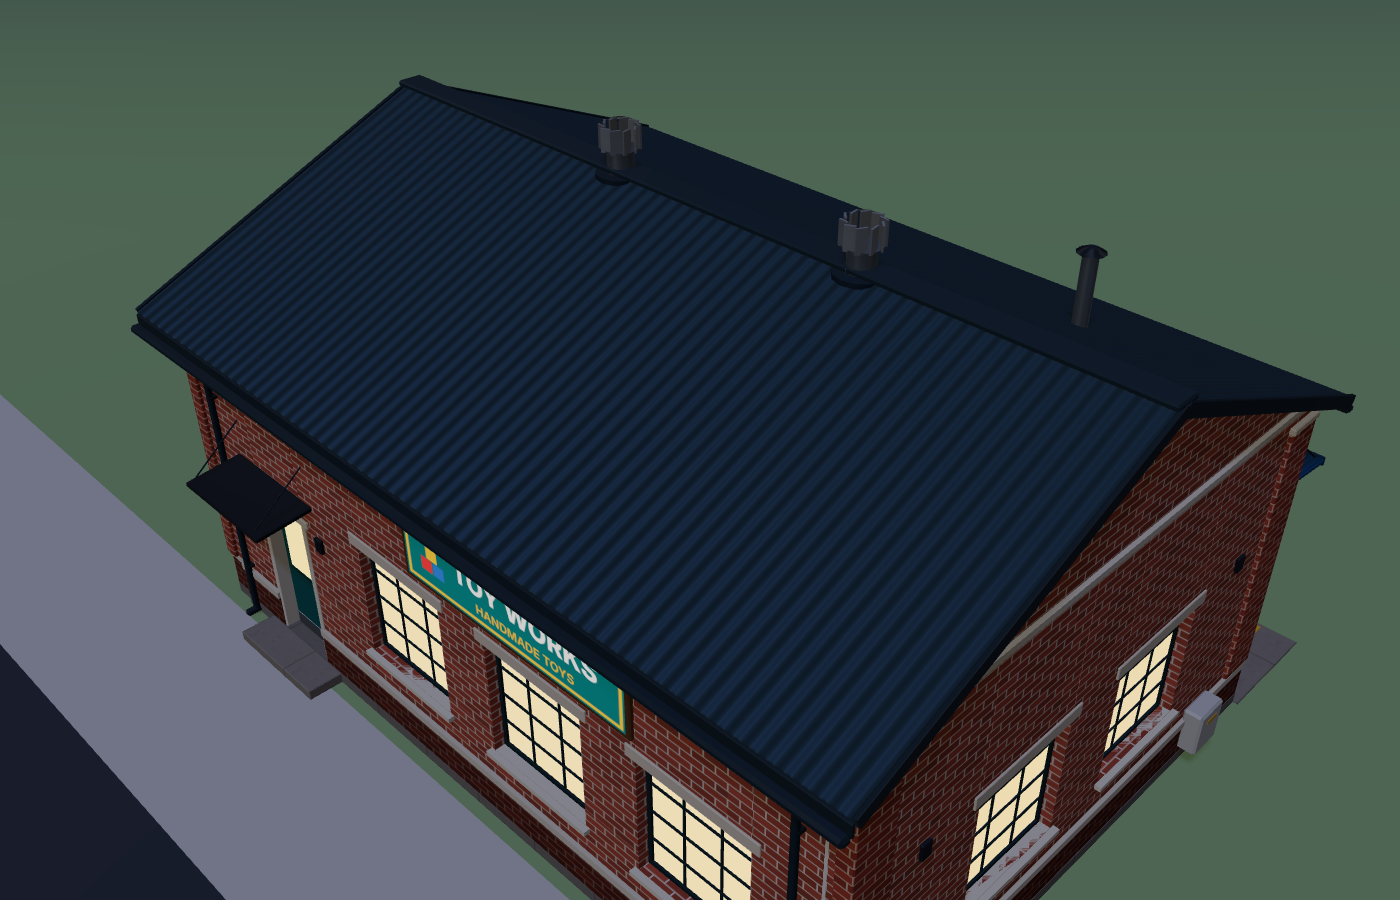
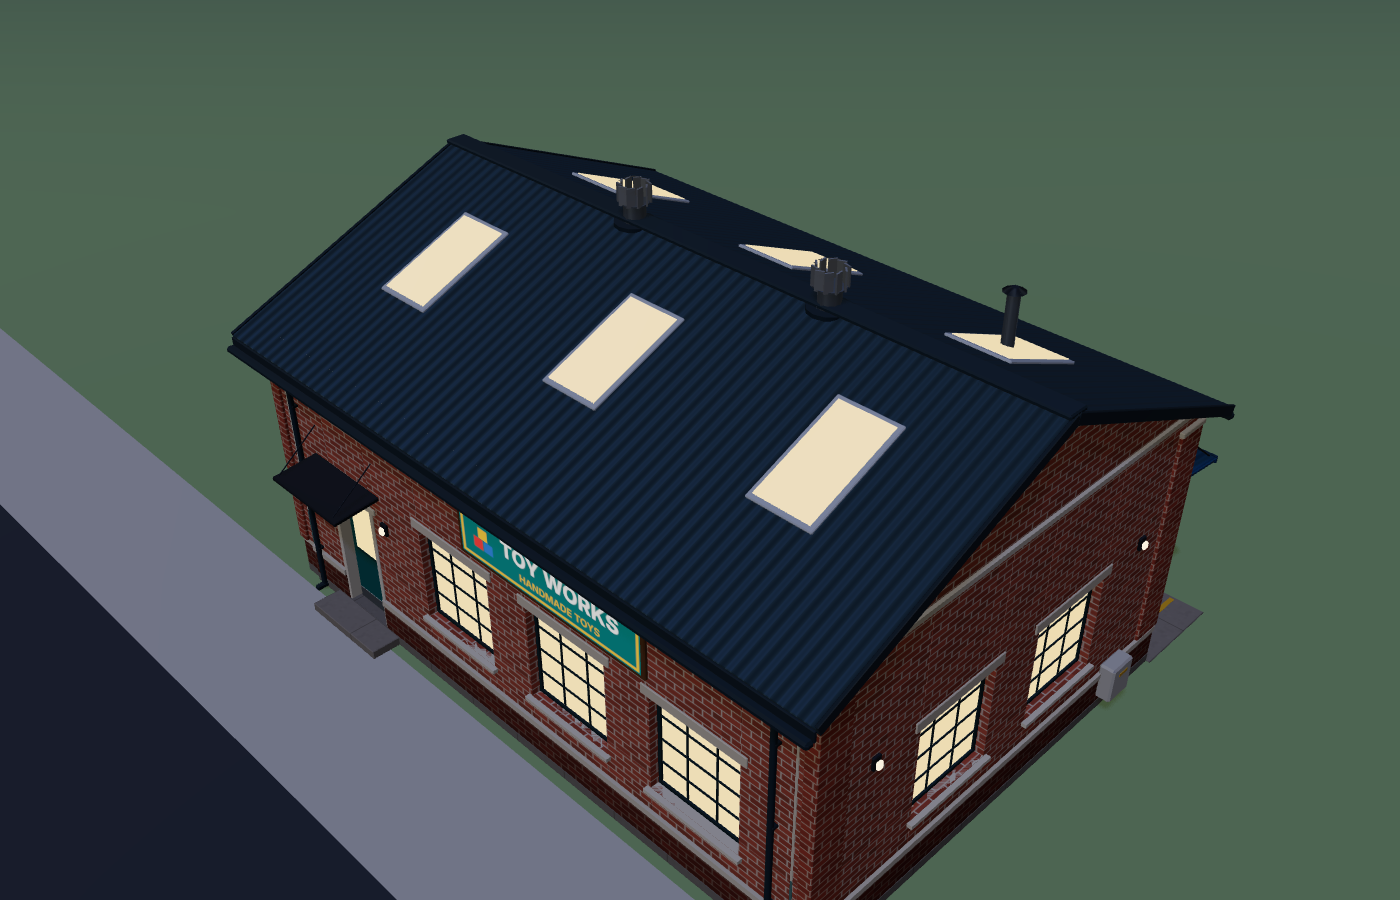
E2E evidence: fresh city to first sale through the real UI and canvas input (desktop, headless Chromium)
Claude-Session: https://claude.ai/code/session_01QUCVJJ8vSf1g5xenrdUj19

diff --git a/src/render/models/items.ts b/src/render/models/items.ts
@@ -27,14 +27,10 @@ function wheel(b: Builder, x: number, y: number, z: number, r: number, wdt: numb
 function carBody(b: Builder, body: number, cabin: number, glass: number | null, tire: number, hub: number, lights: boolean): void {
   b.boxB(M, body, 0.3, 0.085, 0.15, 0, 0.035, 0, 0.025);
   b.boxB(M, cabin, 0.15, 0.075, 0.13, -0.025, 0.12, 0, 0.025);
-  if (glass !== null) {
-    b.box(M, glass, 0.11, 0.045, 0.134, -0.025, 0.16, 0, 0.01);
-    b.box(M, glass, 0.155, 0.045, 0.09, -0.025, 0.16, 0, 0.01);
-  }
+  if (glass !== null) b.box(M, glass, 0.155, 0.045, 0.134, -0.025, 0.16, 0, 0.012);
   for (const x of [-0.095, 0.095]) for (const z of [-0.078, 0.078]) wheel(b, x, 0.042, z, 0.042, 0.03, tire, hub);
   if (lights) {
     for (const z of [-0.045, 0.045]) b.box(M, PAL.yellow, 0.012, 0.022, 0.03, 0.151, 0.085, z, 0.004);
-    b.box(M, PAL.white, 0.006, 0.014, 0.1, 0.15, 0.06, 0, 0.002);
   }
 }
 
@@ -60,20 +56,20 @@ function robot(b: Builder, body: number, head: number, limbs: number, face: numb
 
 function smartBot(b: Builder, shell: number, trim: number, visor: number | null, base: number, chest: number): void {
   // tread base
-  b.boxB(M, base, 0.17, 0.05, 0.05, 0, 0, -0.05, 0.02);
-  b.boxB(M, base, 0.17, 0.05, 0.05, 0, 0, 0.05, 0.02);
-  for (const x of [-0.06, 0, 0.06]) for (const z of [-0.077, 0.077]) b.cyl(M, GREY2, 0.017, 0.006, x, 0.025, z, 'z', 8);
+  b.boxB(M, base, 0.17, 0.05, 0.05, 0, 0, -0.05, 0);
+  b.boxB(M, base, 0.17, 0.05, 0.05, 0, 0, 0.05, 0);
+  for (const x of [-0.05, 0.05]) for (const z of [-0.077, 0.077]) b.cyl(M, GREY2, 0.017, 0.006, x, 0.025, z, 'z', 6);
   // torso (tapered via two boxes)
   b.boxB(M, shell, 0.13, 0.1, 0.12, 0, 0.05, 0, 0.03);
   b.boxB(M, trim, 0.14, 0.02, 0.13, 0, 0.145, 0, 0.008);
   b.box(M, chest, 0.006, 0.05, 0.06, 0.066, 0.1, 0, 0.004);
   // dome head
-  b.add(M, new THREE.SphereGeometry(0.065, 12, 6, 0, TAU, 0, Math.PI / 2), shell, 0, 0.165, 0);
-  b.cylB(M, trim, 0.067, 0.02, 0, 0.155, 0, 12);
-  if (visor !== null) b.add(M, new THREE.CylinderGeometry(0.0665, 0.0665, 0.03, 12, 1, true, -0.9, 1.8), visor, 0, 0.198, 0);
+  b.add(M, new THREE.SphereGeometry(0.065, 10, 4, 0, TAU, 0, Math.PI / 2), shell, 0, 0.165, 0);
+  b.cylB(M, trim, 0.067, 0.02, 0, 0.155, 0, 10);
+  if (visor !== null) b.add(M, new THREE.CylinderGeometry(0.0665, 0.0665, 0.03, 6, 1, true, -0.9, 1.8), visor, 0, 0.198, 0);
   // arms
-  b.box(M, trim, 0.03, 0.08, 0.04, 0, 0.1, -0.08, 0.01, { rx: 0.2 });
-  b.box(M, trim, 0.03, 0.08, 0.04, 0, 0.1, 0.08, 0.01, { rx: -0.2 });
+  b.box(M, trim, 0.03, 0.08, 0.04, 0, 0.1, -0.08, 0, { rx: 0.2 });
+  b.box(M, trim, 0.03, 0.08, 0.04, 0, 0.1, 0.08, 0, { rx: -0.2 });
   b.sphere(M, PAL.orange, 0.012, 0, 0.245, 0, 6, 4);
 }
 
@@ -172,9 +168,8 @@ function build(id: string): THREE.BufferGeometry | null {
       const cols = [PAL.red, PAL.blue, PAL.yellow, PAL.green, 0x4f9be0, PAL.orange];
       cols.forEach((c, i) => {
         const x = -0.08 + (i % 3) * 0.08, z = i < 3 ? -0.045 : 0.045;
-        b.boxB(M, c, 0.06, 0.04, 0.05, x, 0.046, z, 0.008, { ry: (i % 2) * 0.3 });
-        b.cylB(M, c, 0.011, 0.012, x - 0.014, 0.086, z, 6);
-        b.cylB(M, c, 0.011, 0.012, x + 0.014, 0.086, z, 6);
+        b.boxB(M, c, 0.06, 0.04, 0.05, x, 0.046, z, 0, { ry: (i % 2) * 0.3 });
+        b.cylB(M, c, 0.014, 0.012, x, 0.086, z, 6);
       });
       break;
     }

diff --git a/src/render/models/buildings/workshop.ts b/src/render/models/buildings/workshop.ts
@@ -60,8 +60,8 @@ const BAY_W = 1.8;
 const BAY_H = 2.5;
 
 const COL = {
-  dado: 0x7d9a92,
-  lining: 0xf3ead8,
+  dado: 0x6c8f86,
+  lining: 0xeadcc3,
   cap: 0xe8dcc4,
   frame: 0x2f4a4c,
   truss: 0x6f8590,
@@ -303,6 +303,15 @@ function gableRoof(c: Ctx, x0: number, x1: number, H: number, pitch: number, col
   for (const s of [1, -1]) {
     const pz = (s * run) / 2, py = ridge - (run / 2) * tan;
     b.box('ribbed', color, lx, rt, L, cx, py + (rt / 2) * cos, pz + s * (rt / 2) * sin, 0.01, { rx: s * pitch });
+    // rooflights: framed glazed strips set into the slope
+    const nl = Math.max(1, Math.round((x1 - x0) / 3.2));
+    for (let i = 0; i < nl; i++) {
+      const lx = x0 + ((x1 - x0) * (i + 0.5)) / nl;
+      const d0 = run * 0.42; // distance from the ridge along the horizontal run
+      const ly = ridge - d0 * tan + (rt + 0.015) * cos, lz = s * d0 + s * (rt + 0.015) * sin;
+      b.box('satin', 0xd5dadc, 1.0, 0.05, 1.7, lx, ly, lz, 0.015, { rx: s * pitch });
+      b.box('glassLit', 0xa9cfe0, 0.86, 0.03, 1.56, lx, ly + 0.025 * cos, lz + s * 0.025 * sin, 0, { rx: s * pitch });
+    }
     // fascia + gutter
     const ez = s * run, ey = ridge - run * tan;
     b.box('satin', shade(color, 0.7), lx, 0.16, 0.04, cx, ey - 0.02, ez + s * 0.03, 0.008);
@@ -427,7 +436,7 @@ export function createWorkshop(opts: ModelOptions = {}): ModelInstance {
   const c: Ctx = { w, h, level, st: new Builder(), up: { S: new Builder(), E: new Builder() }, roof: new Builder(), truss: new Builder(), anim: [], pools: [] };
 
   // ---- floor slab (exactly the grid) + foundation
-  c.st.span('concrete', 0xe4ded3, -w / 2, -PLINTH - 0.05, -h / 2, w / 2, 0, h / 2, 0);
+  c.st.span('concrete', 0xcfc6b7, -w / 2, -PLINTH - 0.05, -h / 2, w / 2, 0, h / 2, 0);
   // perimeter safety line (inside the grid, 0.08 from the wall)
   const ly = 0.004;
   c.st.span('paint', PAL.yellow, -w / 2 + 0.06, 0, -h / 2 + 0.06, w / 2 - 0.06, ly, -h / 2 + 0.11, 0);

diff --git a/src/render/models/common.ts b/src/render/models/common.ts
@@ -76,7 +76,7 @@ function stackOnBeforeCompile(shader: THREE.WebGLProgramParametersWithUniforms, 
   );
   shader.fragmentShader = 'varying float vOn;\n' + shader.fragmentShader
     .replace('#include <color_fragment>', '#include <color_fragment>\n diffuseColor.rgb *= mix(0.38, 0.9, vOn);')
-    .replace('#include <emissivemap_fragment>', '#include <emissivemap_fragment>\n totalEmissiveRadiance += vColor.rgb * diffuse * vOn * 3.2;');
+    .replace('#include <emissivemap_fragment>', '#include <emissivemap_fragment>\n totalEmissiveRadiance += vColor.rgb * diffuse * vOn * 2.0;');
 }
 
 const lensGeoCache = new Map<string, THREE.BufferGeometry>();
@@ -193,6 +193,7 @@ export class StackLight {
     this.haloMat = new THREE.SpriteMaterial({ map: haloTex, color: 0xffffff, transparent: true, depthWrite: false, blending: THREE.AdditiveBlending, opacity: 0 });
     this.haloMat.userData.perInstance = true;
     this.halo = new THREE.Sprite(this.haloMat);
+    this.halo.geometry.userData.shared = true; // three's module-level sprite quad
     this.halo.scale.setScalar(0.42 * size);
     this.halo.position.copy(lens.position);
     this.halo.renderOrder = 10;

diff --git a/src/render/models/materials.ts b/src/render/models/materials.ts
@@ -391,7 +391,7 @@ function create(key: MatKey): THREE.Material {
       // one shared emissive material; the glow colour comes from the vertex colour (see GLOW_TINT)
       const m = std({ name: 'glow', roughness: 0.3, metalness: 0, emissive: new THREE.Color(0xffffff), emissiveIntensity: 0.45 });
       m.onBeforeCompile = (sh) => {
-        sh.fragmentShader = sh.fragmentShader.replace('#include <emissivemap_fragment>', '#include <emissivemap_fragment>\n totalEmissiveRadiance *= vColor;');
+        sh.fragmentShader = sh.fragmentShader.replace('#include <emissivemap_fragment>', '#include <emissivemap_fragment>\n totalEmissiveRadiance *= vColor.rgb;');
       };
       m.customProgramCacheKey = () => 'glowVC';
       return m;

diff --git a/tools/model-gallery/gallery.ts b/tools/model-gallery/gallery.ts
@@ -299,7 +299,7 @@ function setupWorkshop(level: number) {
   walk.position.set(0, 0.006, interior[1] / 2 + 1.8);
   walk.receiveShadow = true;
   scene.add(walk);
-  if (!q.has('dist')) q.set('dist', '0.62');
+  if (!q.has('dist')) q.set('dist', cutaway > 0.5 ? '0.64' : '0.74');
   frameObject(bld.inst.root, q.get('cam') ?? '34');
   return bld;
 }

diff --git a/src/render/models/characters.ts b/src/render/models/characters.ts
@@ -261,6 +261,7 @@ function createPerson(worker: boolean, opts: ModelOptions): ModelInstance {
 
   return makeInstance({
     root,
+    extraDispose: () => skel.dispose(),
     update: (dt, s: AnimState) => {
       const pose = s.pose ?? 'idle';
       const moving = pose === 'walk' || pose === 'carry';

diff --git a/docs/art-bible.md b/docs/art-bible.md
@@ -1,0 +1,168 @@
+# Art bible — Tiny Factory: Tycoon City
+
+Target look: **a premium stylized miniature city** — a toy-like diorama with believable function. Soft
+clay-like matte surfaces, crisp bevels that catch light, saturated-but-warm accents, readable
+silhouettes from a 10–15 m camera on a phone. Everything is original procedural geometry
+(`src/render/models/**`), see `docs/licenses/art.md`.
+
+Gallery: `npx vite --port 5181` then open `/tools/model-gallery/index.html` (params documented at the top of
+`tools/model-gallery/gallery.ts`). Captures: `node tools/model-gallery/capture.mjs [filter]` → `captures/models/`.
+
+---
+
+## 1. Palette (sRGB hex — `PAL` in `materials.ts`)
+
+| Role | Swatches |
+|---|---|
+| Brick / masonry | brick texture (red `#c6684c` bricks, cream `#e9dcc6` mortar), plinth tint `#a8968c`, cap/coping `#e8dcc4` |
+| Plaster / interior | cream `#f1e6cf`, lining `#f3ead8`, dado sage `#7d9a92`, house pastels mint `#b9dcc9`, butter `#f3dc8e`, sky `#a9cde8`, peach `#f4bf9c`, coral (store) `#f2b8a0` |
+| Roofs | slate teal `#4d6670`, dark `#34474f`, terracotta `#a65a42`/`#b4583e`, slate blue `#52687e`, saw-tooth grey `#8a9aa2` |
+| Signature accents | teal `#2e7c78` (Toy Works brand), deep teal `#1f5654`, mint `#93d6c3`, orange `#ef7f3a` (robots), safety yellow `#f2bb2c`, red `#d8453c`, blue `#3f7fc8`, purple `#6d4fa8` |
+| Neutrals | graphite `#34383f`, rubber `#2a2c31`, steel `#aab3ba`, dark steel `#5c656d`, chrome `#e2e6ea`, white `#f5f3ee` |
+| Materials | wood `#c9985f` / light `#e3c08a` / dark `#8a5d36`, cardboard `#c99b63` / dark `#a87b46`, concrete `#d3ccc0` / dark `#aaa296`, asphalt `#4c5056`, grass `#8dbf62` |
+| Light | window glow `#ffc874`, lamp `#ffd08a`, cool LED `#e8f3ff`, tail `#ff3a24`, screen cyan `#58e0ff` |
+| Status tiers | blue `#2f7cff`, green `#2fd35a`, amber `#ffa31a`, red `#ff3326`, white `#f2f4f8` |
+| Products | blocks yellow box, car red box, robot blue box, smart robot aubergine `#3b2a6b` box with teal band |
+
+Rules: one dominant hue per object + one accent + neutrals. Saturated colours are reserved for
+signals (status, hazard, brand, products). Large surfaces stay mid-value and slightly warm so the
+ACES tone curve never clips them to white.
+
+## 2. Materials (shared — `mat(key)` in `materials.ts`)
+
+All library materials are created once and shared. Colour per part = **vertex colour** multiplied
+into the material, so a machine is typically 4–8 draw calls regardless of how many colours it uses.
+
+| Key | Type / params | Use |
+|---|---|---|
+| `paint` | Standard, rough 0.82, metal 0, vc | plaster, cloth, cardboard, matte paint, characters |
+| `satin` | rough 0.46, metal 0.02, vc | painted steel, plastic, vehicle paint, items |
+| `metal` | rough 0.34, metal 0.85, vc | bare steel, chrome rollers, insulators of steel |
+| `brick` / `concrete` / `wood` | canvas maps, world-metre UVs, rough 0.72–0.92 | masonry, floors (1 m joints align to the grid), timber |
+| `ribbed` / `slats` / `tiles` | sinusoidal normal maps | corrugated roofs/cladding/containers, roller curtains, roof tiles |
+| `hazard` | yellow/black stripe map, 0.12 m pitch | dock lips, guards, floor zones |
+| `glass` | rough 0.08, metal 0.6, vc | vehicle glazing, never glows |
+| `glassLit` | as glass + warm emissive × night | building windows |
+| `glassClear` | transparent 0.28, no depth write, double-sided | booth windows, offices, display glass |
+| `glow` (aliases `lamp`, `lampCool`, `tail`, `screen`) | emissive = vertex colour × intensity(night) | every light, HMI screen, tail light |
+| `solar`, `wire` | cell texture / alpha-tested mesh | PV panels / guard + perimeter fences |
+| `foliage` | rough 0.88, vc gradient (dark low, light high) | trees, hedges, planters |
+| `contact`, `contactRound`, `lightPool` | unlit transparent / additive | soft contact shadows, night light pools |
+| `sign:*`, `livery` | canvas text textures | signage (emissive at night where it is lit), vehicle liveries (4-row atlas) |
+
+Ranges: roughness 0.3–0.95 (nothing glossier than 0.3 except glass), metalness 0 for everything painted,
+0.6–0.85 only for bare metal/glass. Per-instance materials exist only where state is per instance:
+stack-light lens (shared shader program), status halo sprite, dock roller stripe texture offset,
+paint mist / painted part tint, packed product tint, and transient clones during cutaway fades.
+Measured: **31 shared materials** for the whole library (`captures/models/stats.json`).
+
+## 3. Lighting (`lighting.ts`, identical in gallery and game)
+
+* `configureRenderer`: ACES filmic, exposure 1.0, sRGB output, PCF shadows (`shadow.radius = 3` for
+  softness — r187 removed `PCFSoftShadowMap`).
+* `createLightRig()`: warm sun `#fff0d8` ×2.6 from the **east-south-east, ~50° high** (towards-light
+  vector `(0.62, 1, 0.36)`), sky/ground hemisphere `#cfe4ff`/`#c8b496` ×0.95, cool back fill ×0.3.
+  The sun direction is chosen so street-facing walls (S, E) read in two tones, shadows fall
+  north-west (away from the camera), and the remaining west/north walls never shadow a cut-away
+  interior. Night: moon `#8fa8ff` ×0.5, hemisphere `#2c3f70`/`#141a2a` ×0.42. `update(night, focus,
+  radius)` fits the 2048² shadow frustum to the view and snaps it to texels (no shimmer).
+* `createSkyAndFog(scene, renderer)`: background/fog `#bcdcef` (day) → `#0e1729` (night), procedural
+  RoomEnvironment IBL ×0.45 → ×0.10. Recommended fog: `near ≈ 1.6 × camera distance`,
+  `far ≈ 4.5 × camera distance` (the gallery does this); never fog the gameplay focus.
+* Night is a single global: every model's `update()` forwards `AnimState.night` to
+  `setNightLevel()`, which drives window glow, lamps, signs and light pools.
+
+## 4. Scale, pivots, orientation
+
+* 1 unit = 1 m, +Y up. Worker 1.71 m (1.76 with hard hat), door 2.15 m, bay door 1.8 × 2.5 m,
+  van 4.8 m, box truck 7.6 m, belt top `BELT_TOP_Y = 0.42`.
+* **Machines** face +X at rotation 0 (output side), centred on their footprint, base y = 0.
+  `root.userData` carries `footprint`, `ports` (local in/out lip centres), `workerSpot {x,z,yaw}`.
+* **Characters and vehicles** face +X at rotation 0, origin on the ground at the body centre.
+* **Buildings**: origin = centre of the interior grid at floor level (houses/depot/substation: plot
+  centre at yard level). Floor top is y = 0; foundations go down to −0.15. **Place building roots at
+  `BUILDING_FLOOR_HEIGHT` (0.15) above the street** so slabs never z-fight the city ground. The street
+  side of every building is +Z; the gameplay camera sits at +X,+Z.
+* Grid: tile (gx, gy) occupies local x ∈ [gx − w/2, gx + 1 − w/2], z ∈ [gy − h/2, gy + 1 − h/2]. Use
+  `placeOnGrid(obj, interior, gx, gy, footprint, rot)` from `models/index.ts` (anchor = min corner of
+  the rotated footprint; odd rotations swap the footprint extents).
+
+## 5. Silhouette & detail rules
+
+1. Every primary form has a chamfer or rounded edge (flat-shaded 44-tri chamfer box); chamfers under
+   8 mm are dropped automatically (invisible at 12 m, 32 triangles each).
+2. Detail is **layered structure**, never noise: frames around openings, sills and lintels, plinths
+   and copings, rails on posts, guards on machines, cables/hoses between parts.
+3. Each machine has one **signature silhouette element** that reads at phone size: bench → pegboard +
+   task lamp; packer → blue portal + tape head; paint booth → white cabin + extractor stack; robot
+   cell → orange arm + yellow fence posts; dock → coloured roll-up portal; splitter → yellow gantry +
+   orange paddle; storage → green cage.
+4. Interior-facing walls (W, N) carry the storytelling detail (lights, pipes, extinguisher, notice
+   board, clock, distribution board) because they are what the cut-away camera sees.
+5. Contact shadows under every free-standing object; light pools under every night light.
+6. No floating parts: every prop/fixture touches a support (verified in captures); no coplanar faces
+   (offsets ≥ 4 mm, polygon offset on decals).
+
+## 6. Budgets (measured — `captures/models/stats.json`)
+
+| Class | Budget | Current |
+|---|---|---|
+| Item | ≤ 400 tris, 1 draw (InstancedMesh) | 230–740 (see §10) |
+| Belt / curve | ≈ 700–1200 tris, 3 draws | belt ≈ 680, curves ≈ 1.1k |
+| Machine | ≤ 4 k tris, ≤ ~12 draws | 1.2–3.6 k |
+| Worker / pedestrian | ≤ 1.5 k tris, 2 draws (skinned body + blob) | ≈ 1.2–1.45 k |
+| Vehicle | ≤ 4 k | van ≈ 2.9 k, truck ≈ 3.4 k |
+| House | ≤ 5 k | 3.3–5.0 k |
+| Workshop L1/L2/L3 | L3 ≤ 20 k | ≈ 11 k / 15 k / 20 k |
+| Materials (library) | ≤ ~40 | 31 shared |
+
+Static geometry of each model is merged per material and **cached per model id** (60 belts share one
+geometry); only animated parts are separate meshes. `update()` never allocates.
+
+## 7. Animation-state language (`VisualStatus`)
+
+Every machine has a stack light (5 tiers bottom→top: blue, green, amber, red, white) or, on belts and
+storage, a single LED. Status reads by **tier position + rhythm**, not colour alone, plus an additive
+halo for phone readability.
+
+| Status | Light | Mechanism |
+|---|---|---|
+| `working` | green, steady | animates, synced to `progress` |
+| `loading` / `unloading` | green, quick blink | docks: curtain rolls up, rollers turn; vehicles: rear doors/shutter open |
+| `starved` | amber, slow blink (0.8 Hz) | stops, parks |
+| `blocked` | amber, double flash | stops, parks |
+| `no_power` | red, short flash every 1.8 s, otherwise dark | stops; robot arm droops |
+| `no_worker` | blue, breathing | stops |
+| `no_recipe` | white, slow blink | stops |
+| `upgrading` | amber ⇄ green alternate | stops |
+| `idle` | dim white (reads grey) | stops; dock curtains close |
+
+Per-model drivers: belts scroll at `BELT_BASE_SPEED × speed` (1 m/s); robot cycle pick (0–0.26) →
+place (0.26–0.48) → screw (0.52–0.78) → home; bench presses 3× per cycle; packer erects (0–0.14),
+item drops (0.16–0.36), flaps fold (0.42–0.7), tape passes (0.72–0.92), carton exits; paint booth
+sweeps 3× and tints the part toward `itemColor`; storage shows `round(progress × 8)` cartons.
+Characters: `pose` walk/carry/work/idle; root speed must be `WORKER_WALK_SPEED × speed` (1.3 m/s)
+for planted feet. Vehicles: wheels from `speed` in m/s.
+
+## 8. Naming
+
+* Model ids: `bld_*`, `mach_*`, `veh_*`, `chr_*`, `prop_*` (snake case, as in content data).
+* Files: one family per file (`machines/stations.ts`, `buildings/house.ts`, …); factories are
+  `createXxx(opts)` registered in `index.ts`.
+* Meshes are named `<part>:<material>` (e.g. `benchBody:satin`) so profiling tools show what costs what.
+* Canvas textures: `sign:<key>` materials; per-instance materials set `userData.perInstance`.
+
+## 9. How to add a model
+
+1. Write `createFoo(opts): ModelInstance` in the right family file. Build static geometry with a
+   `Builder` inside `cached('foo', () => …)`; use `box/boxB/span` (chamfer ≥ 1 cm on primary forms),
+   `cyl/rod/lathe/sphere`, `add(…, geometry)`; colours from `PAL`.
+2. Separate meshes only for parts that move (pivot `Group`s). Add a `StackLight(null, …)` +
+   `stackHousing(b, …)` for machines, `contactShadow()` for anything standing on the ground.
+3. `return makeInstance({ root, update, setCutaway?, extraDispose? })` — `update` must not allocate.
+4. Register the id in `REGISTRY` (`index.ts`), add it to `CATALOG` in `gallery.ts` and the per-model
+   list in `capture.mjs`, run the capture, look at the PNG, check `stats.json` against §6.
+
+## 10. Honest self-review (current benchmark vs. the bar)
+
+See the end of this document — updated after each review pass.

diff --git a/docs/licenses/art.md b/docs/licenses/art.md
@@ -1,0 +1,33 @@
+# Art provenance and licences
+
+Status: all 3D art in this repository is **original, procedurally generated in code**. No models, textures, HDRIs,
+fonts or images were downloaded, purchased, traced or converted from third-party sources.
+
+## What is in the library
+
+| Asset class | Where | How it is made |
+|---|---|---|
+| Buildings, machines, vehicles, characters, props, items | `src/render/models/**` | Procedural geometry written for this project (chamfered boxes, extrusions, lathes, custom arc / frustum generators), merged per material at runtime. |
+| Tiling textures (brick, concrete, wood grain, hazard stripes, corrugation / tile normal maps, solar cells, wire mesh, soft shadow falloffs, roller stripes) | `src/render/models/materials.ts`, `machines/docks.ts` | Drawn at runtime into `<canvas>` with the 2D API (`CanvasTexture`). Seeded PRNG, so they are deterministic. |
+| Signage and liveries ("TOY WORKS", "TOY STORE", "IMPORT DEPOT", "FOR SALE", bus stop, danger plates, van/truck liveries) | `materials.ts` (`signMat`, `liveryMat`) | Runtime canvas text + simple vector icons (robot, gear, bus, lock, bolt, blocks, truck) drawn with canvas paths. All brand names are fictional in-game businesses. |
+| Lighting environment | `src/render/models/lighting.ts` | three.js `RoomEnvironment` (a procedural scene) baked to a PMREM at runtime. No HDRI file. |
+| Gallery captures | `captures/models/*.png` | Rendered by `tools/model-gallery/capture.mjs` from the code above. |
+
+### Fonts
+
+Sign text is drawn with the CSS font stack `'Rubik', 'Arial Rounded MT Bold', 'Helvetica Neue', 'DejaVu Sans', Arial, sans-serif`.
+No font files are shipped by the art library. If the UI has already loaded Rubik (`@fontsource/rubik`, SIL Open
+Font License 1.1, a project dependency), the signs use it; otherwise the platform's system sans-serif is used.
+Glyphs are rasterised into textures at runtime and are not redistributed as font files.
+
+## Third-party code used by the art library
+
+| Package | Licence | Used for |
+|---|---|---|
+| three.js 0.187.0 (`three`) | MIT, © 2010–2025 three.js authors | Rendering, geometry primitives, materials. |
+| three.js addons: `three/addons/utils/BufferGeometryUtils.js` | MIT (part of three.js) | `mergeGeometries` to merge static sub-geometry per material. |
+| three.js addons: `three/addons/environments/RoomEnvironment.js` | MIT (part of three.js) | Procedural room used to build the image-based-lighting environment. |
+| Playwright (pre-installed tool, not a project dependency) | Apache-2.0 | Headless capture script `tools/model-gallery/capture.mjs` (dev only, not shipped). |
+
+No other third-party code, shaders or assets are used. The small shader patches (stack-light lens tiers,
+vertex-coloured emissive "glow") are original and injected via `onBeforeCompile`.
